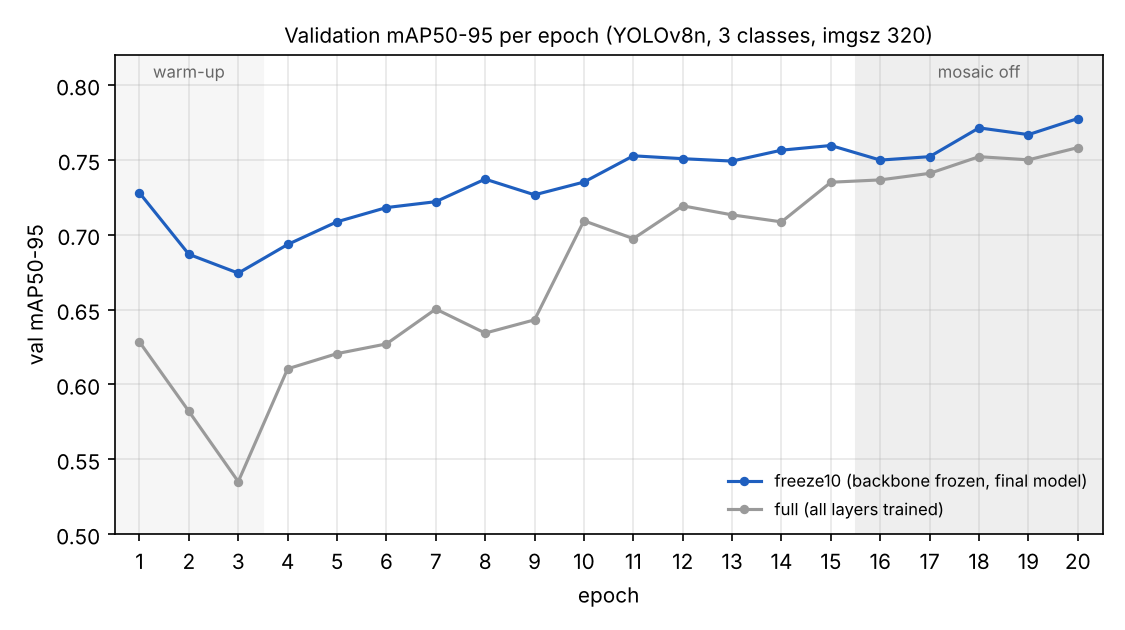
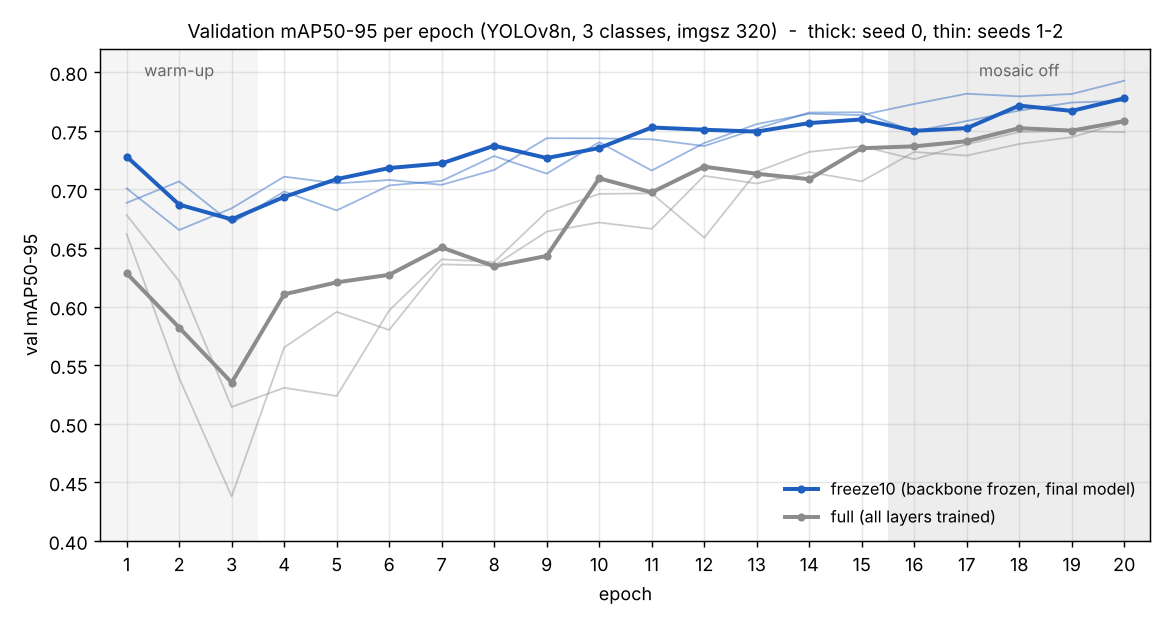
feat: 시드 반복 학습 (freeze10 / full 각 시드 0·1·2)
- train.py: --seed 옵션 (시드 0은 기존 결과와 같은 runs/ft_<방식>,
  다른 시드는 runs/ft_<방식>_s<시드>)
- 시드 1·2 학습 로그와 테스트 지표 추가
  테스트 mAP50-95 평균: freeze10 0.795 ± 0.010, full 0.785 ± 0.007
  (시드 2에서는 full이 더 높음 -> 차이는 시드에 따른 흔들림과 비슷한 크기)
  검증 mAP50-95는 세 시드 모두 20 epoch 내내 freeze10이 앞섬
- plot_curves.py: 학습 로그로 learning_curves.png를 다시 그림 (시드 1·2는 가는 선)

diff --git a/yolo/scripts/plot_curves.py b/yolo/scripts/plot_curves.py
@@ -1,0 +1,71 @@
+"""epoch별 검증 mAP50-95 학습 곡선 그림(results/learning_curves.png)을 학습 로그 CSV에서 다시 그린다.
+
+- results/train_log_<방식>.csv          : 최종 비교에 쓴 시드 0 학습 (굵은 선)
+- results/train_log_<방식>_s<시드>.csv  : 시드를 바꾼 반복 학습 (가는 선, 있으면 함께 그림)
+
+사용 예:
+    python scripts/plot_curves.py --logs results --out results/learning_curves.png
+"""
+
+import argparse
+import csv
+from pathlib import Path
+
+import matplotlib
+
+matplotlib.use("Agg")
+import matplotlib.pyplot as plt  # noqa: E402
+
+STYLE = {"freeze10": ("#1f5fbf", "freeze10 (backbone frozen, final model)"),
+         "full": ("#8c8c8c", "full (all layers trained)")}
+
+
+def read_log(path):
+    rows = list(csv.DictReader(open(path, newline="")))
+    return [int(r["epoch"]) for r in rows], [float(r["metrics/mAP50-95(B)"]) for r in rows]
+
+
+def main():
+    ap = argparse.ArgumentParser()
+    ap.add_argument("--logs", default="results")
+    ap.add_argument("--out", default="results/learning_curves.png")
+    ap.add_argument("--close-mosaic", type=int, default=5)
+    ap.add_argument("--warmup", type=int, default=3)
+    args = ap.parse_args()
+
+    logs = Path(args.logs)
+    fig, ax = plt.subplots(figsize=(9, 4.8), dpi=130)
+    n_epochs, seeds = 0, {}
+    for mode, (color, label) in STYLE.items():
+        extra = sorted(logs.glob(f"train_log_{mode}_s*.csv"))
+        seeds[mode] = 1 + len(extra)
+        for p in extra:
+            e, v = read_log(p)
+            ax.plot(e, v, color=color, lw=1, alpha=0.45)
+        e, v = read_log(logs / f"train_log_{mode}.csv")
+        n_epochs = max(n_epochs, max(e))
+        ax.plot(e, v, color=color, lw=2.2, marker="o", ms=3.5, label=label)
+
+    ax.axvspan(0.5, args.warmup + 0.5, color="#000000", alpha=0.04, lw=0)
+    ax.axvspan(n_epochs - args.close_mosaic + 0.5, n_epochs + 0.5, color="#000000", alpha=0.07, lw=0)
+    ax.text((args.warmup + 1) / 2, 0.81, "warm-up", ha="center", va="top", fontsize=9, color="#666666")
+    ax.text(n_epochs - (args.close_mosaic - 1) / 2, 0.81, "mosaic off", ha="center", va="top", fontsize=9,
+            color="#666666")
+    ax.set_xlim(0.5, n_epochs + 0.5)
+    ax.set_ylim(0.4, 0.82)
+    ax.set_xticks(range(1, n_epochs + 1))
+    ax.set_xlabel("epoch")
+    ax.set_ylabel("val mAP50-95")
+    note = "" if max(seeds.values()) == 1 else \
+        f"  -  thick: seed 0, thin: seeds 1-{max(seeds.values()) - 1}"
+    ax.set_title(f"Validation mAP50-95 per epoch (YOLOv8n, 3 classes, imgsz 320){note}", fontsize=10.5)
+    ax.grid(alpha=0.3)
+    ax.legend(loc="lower right", fontsize=9, frameon=False)
+    fig.tight_layout()
+    Path(args.out).parent.mkdir(parents=True, exist_ok=True)
+    fig.savefig(args.out)
+    print("저장:", args.out)
+
+
+if __name__ == "__main__":
+    main()

diff --git a/yolo/scripts/train.py b/yolo/scripts/train.py
@@ -9,6 +9,10 @@
 사용 예:
     python scripts/train.py --mode full     --data datasets/wildlife3/wildlife3.yaml
     python scripts/train.py --mode freeze10 --data datasets/wildlife3/wildlife3.yaml
+    python scripts/train.py --mode freeze10 --seed 1      # 반복 실험: runs/ft_freeze10_s1 에 저장
+
+--seed 0(기본값)은 weights/ 의 모델을 만든 설정과 같고 결과는 runs/ft_<방식> 에 저장된다.
+다른 시드는 runs/ft_<방식>_s<시드> 에 따로 저장되어 기존 결과를 덮어쓰지 않는다.
 """
 
 import argparse
@@ -27,8 +31,10 @@ def main():
     ap.add_argument("--batch", type=int, default=16)
     ap.add_argument("--device", default="cpu", help="GPU가 있으면 0")
     ap.add_argument("--project", default="runs")
+    ap.add_argument("--seed", type=int, default=0, help="난수 시드 (반복 실험용)")
     args = ap.parse_args()
 
+    name = f"ft_{args.mode}" if args.seed == 0 else f"ft_{args.mode}_s{args.seed}"
     model = YOLO(args.weights)          # nc=80(COCO) 헤드 -> 데이터의 nc=3에 맞게 자동 교체
     model.train(
         data=args.data,
@@ -39,10 +45,10 @@ def main():
         freeze=10 if args.mode == "freeze10" else None,
         close_mosaic=5,                 # 마지막 5 epoch는 모자이크 증강 끄고 원본 분포로 마무리
         cache=True,                     # 이미지를 메모리에 올려 CPU 학습 속도 개선
-        seed=0,
+        seed=args.seed,
         deterministic=True,
         project=str(Path(args.project).resolve()),   # 상대 경로면 Ultralytics가 runs/detect 아래로 옮기므로
-        name=f"ft_{args.mode}",
+        name=name,
         exist_ok=True,
         plots=True,
     )
